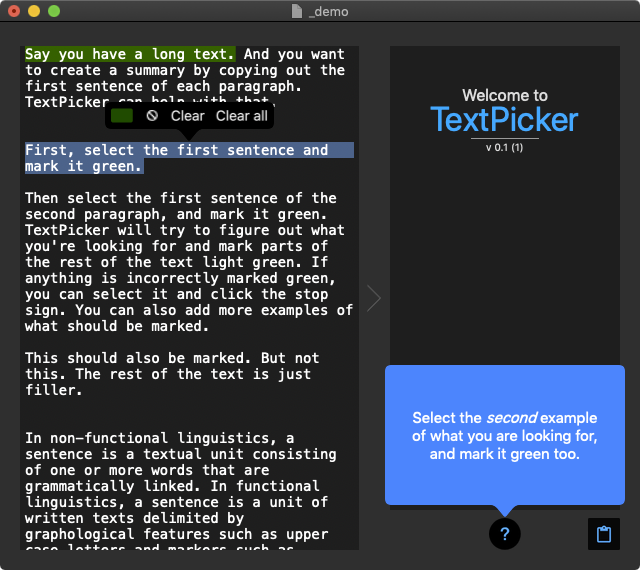
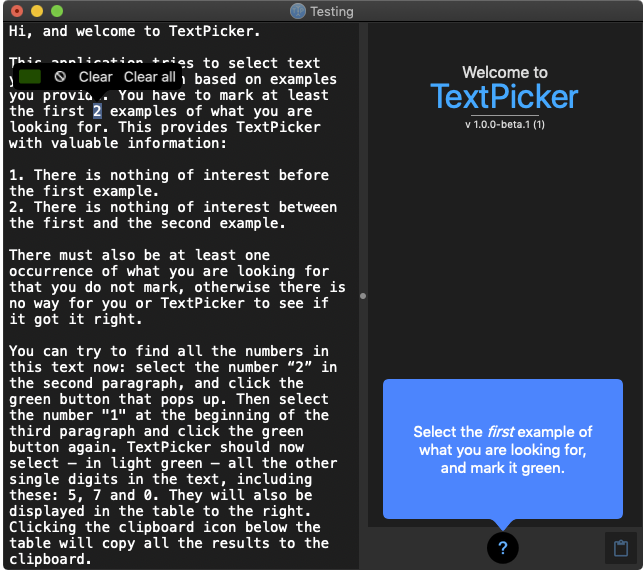
TextPicker: update screenshots, comment out video link

diff --git a/textpicker/index.html b/textpicker/index.html
@@ -75,10 +75,10 @@
 		</div>
 
 		<div class="play_video">
-			<a href="https://www.youtube.com/embed/vA9lK5AzQkc?autoplay=1" class="video-link">
+			<!--a href="https://www.youtube.com/embed/vA9lK5AzQkc?autoplay=1" class="video-link">
 				<img src="play_video_symbol.png" alt="The standard icon for playing video.">
 				<p>See it in action</p>
-			</a>
+			</a-->
 		</div>
 
 		<div class="cta">
